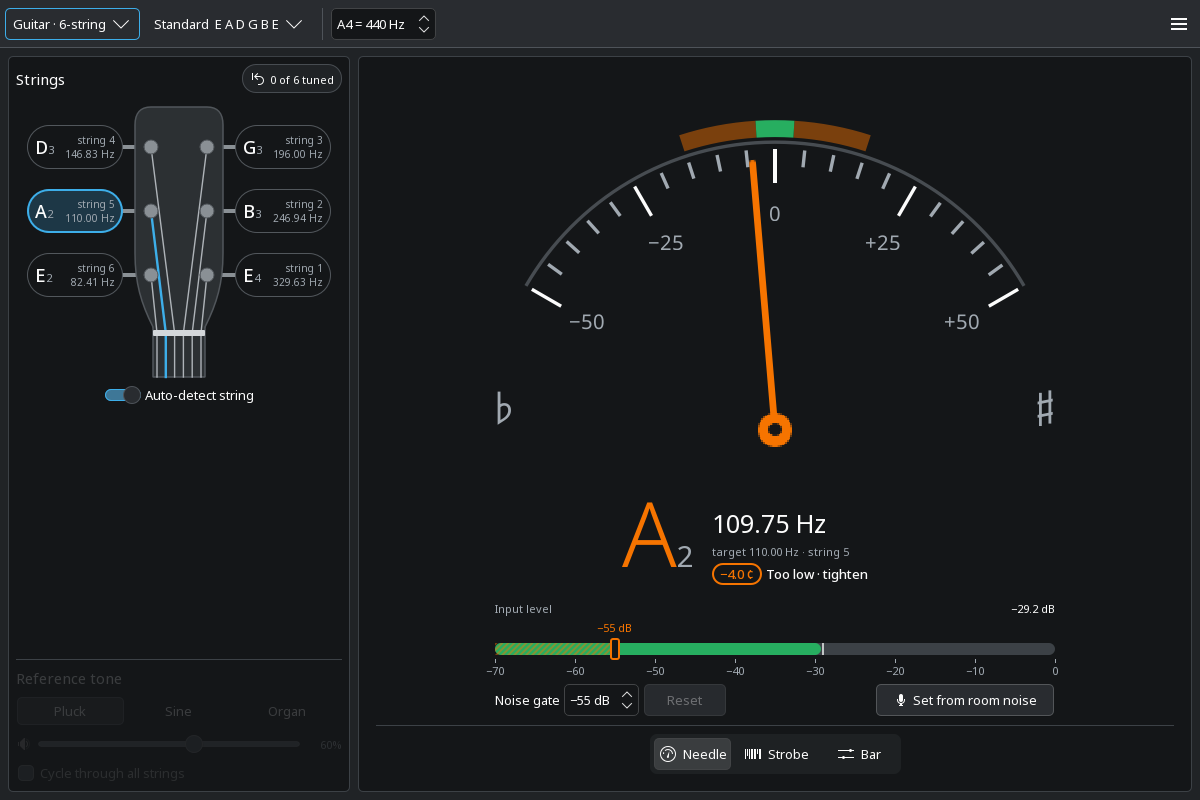
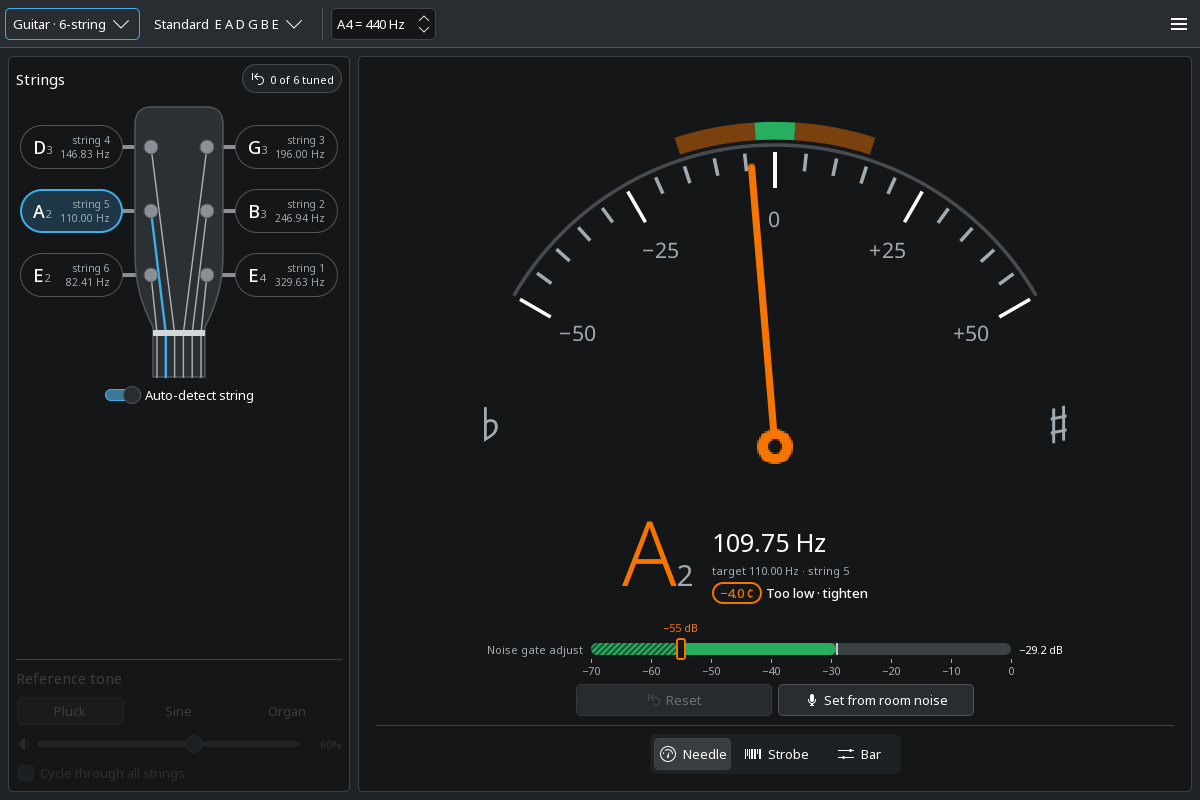
feat: noise gate meter with inline label and two centred buttons
Variant E of the v4 mockup: "Noise gate adjust" and the current level
sit on the meter line, the noise gate box is gone (the meter does the
same), and Reset (with an icon) and Set from room noise share one width,
centred under the meter. Hatching uses the panel color so it shows over
any fill. README, TODO, settings text, screenshots and the mockup
gallery follow.

diff --git a/src/qml/TunerPage.qml b/src/qml/TunerPage.qml
@@ -398,54 +398,57 @@ Kirigami.Page {
     component NoiseGatePanel: ColumnLayout {
         spacing: Kirigami.Units.smallSpacing
 
+        // Label and current level sit on the meter's line, centred on its track.
         RowLayout {
             Layout.fillWidth: true
-            Layout.leftMargin: Kirigami.Units.largeSpacing
-            Layout.rightMargin: Kirigami.Units.largeSpacing
+            spacing: 0
+
             QQC2.Label {
-                Layout.fillWidth: true
-                text: i18nc("@label", "Input level")
+                Layout.alignment: Qt.AlignTop
+                Layout.topMargin: gateMeter.trackCenter - height / 2
+                text: i18nc("@label", "Noise gate adjust")
                 font: Kirigami.Theme.smallFont
                 color: Kirigami.Theme.disabledTextColor
             }
+            NoiseGateMeter {
+                id: gateMeter
+                Layout.fillWidth: true
+                db: TunerController.levelDb
+                peak: TunerController.peakDb
+                gate: TunerController.noiseGate
+                minimumGate: TunerController.minNoiseGate
+                maximumGate: TunerController.maxNoiseGate
+                defaultGate: TunerController.defaultNoiseGate
+                onGateMoved: value => TunerController.noiseGate = value
+            }
             QQC2.Label {
+                Layout.alignment: Qt.AlignTop
+                Layout.topMargin: gateMeter.trackCenter - height / 2
+                Layout.minimumWidth: levelMetrics.width
+                horizontalAlignment: Text.AlignRight
                 text: i18nc("input level in decibels", "%1 dB", TunerController.levelDb.toFixed(1).replace("-", "−"))
                 font: Kirigami.Theme.smallFont
                 color: TunerController.levelDb <= TunerController.noiseGate ? Kirigami.Theme.disabledTextColor : Kirigami.Theme.textColor
+                // Wide enough for any level, so the meter doesn't shift while the value changes.
+                TextMetrics {
+                    id: levelMetrics
+                    font: Kirigami.Theme.smallFont
+                    text: i18nc("input level in decibels", "%1 dB", "−00.0")
+                }
             }
         }
 
-        NoiseGateMeter {
-            Layout.fillWidth: true
-            db: TunerController.levelDb
-            peak: TunerController.peakDb
-            gate: TunerController.noiseGate
-            minimumGate: TunerController.minNoiseGate
-            maximumGate: TunerController.maxNoiseGate
-            defaultGate: TunerController.defaultNoiseGate
-            onGateMoved: value => TunerController.noiseGate = value
-        }
-
+        // Two buttons of the same width, centred under the meter.
         RowLayout {
-            Layout.fillWidth: true
-            Layout.leftMargin: Kirigami.Units.largeSpacing
-            Layout.rightMargin: Kirigami.Units.largeSpacing
+            readonly property real buttonWidth: Math.max(Kirigami.Units.gridUnit * 11, resetButton.implicitWidth, measureButton.implicitWidth)
+
+            Layout.alignment: Qt.AlignHCenter
             spacing: Kirigami.Units.smallSpacing
 
-            QQC2.Label {
-                text: i18nc("@label:spinbox", "Noise gate")
-            }
-            QQC2.SpinBox {
-                from: TunerController.minNoiseGate
-                to: TunerController.maxNoiseGate
-                value: TunerController.noiseGate
-                editable: true
-                textFromValue: (value, locale) => i18nc("decibels", "%1 dB", String(value).replace("-", "−"))
-                valueFromText: (text, locale) => parseInt(text.replace("−", "-").replace(/[^0-9-]/g, "")) || TunerController.defaultNoiseGate
-                onValueModified: TunerController.noiseGate = value
-                Accessible.name: i18nc("@label:spinbox", "Noise gate")
-            }
             QQC2.Button {
+                id: resetButton
+                Layout.preferredWidth: parent.buttonWidth
+                icon.name: "edit-reset"
                 text: i18nc("@action:button reset the noise gate", "Reset")
                 enabled: TunerController.noiseGate !== TunerController.defaultNoiseGate
                 onClicked: TunerController.noiseGate = TunerController.defaultNoiseGate
@@ -453,10 +456,10 @@ Kirigami.Page {
                 QQC2.ToolTip.visible: hovered
                 QQC2.ToolTip.delay: Kirigami.Units.toolTipDelay
             }
-            Item {
-                Layout.fillWidth: true
+            MeasureNoiseButton {
+                id: measureButton
+                Layout.preferredWidth: parent.buttonWidth
             }
-            MeasureNoiseButton {}
         }
     }
 
@@ -472,7 +475,6 @@ Kirigami.Page {
             : done ? i18nc("@action:button noise gate was set", "Done")
             : i18nc("@action:button", "Set from room noise")
         enabled: !TunerController.measuringNoise
-        Layout.minimumWidth: Kirigami.Units.gridUnit * 10
 
         QQC2.ToolTip.text: i18nc("@info:tooltip", "Keep quiet for two seconds: the noise gate is set just above the noise of the room.")
         QQC2.ToolTip.visible: hovered

diff --git a/docs/mockups/index.html b/docs/mockups/index.html
@@ -65,8 +65,8 @@ a { color: var(--accent); }
   <p>Adjust the noise gate while tuning. Plucks ring out and decay into the room noise; the tuner dims while the input is below the gate.
      Try dragging the orange marker, the arrow keys and the mouse wheel on it. Add <code>&amp;room=noisy</code> for a louder room. All colors come from KDE color scheme roles: <code>theme=dark</code>, <code>light</code> (Breeze) or <code>layan</code>.</p>
   <div class="grid" data-pages='[
-    ["v4-noise-gate.html?gate=e&theme=layan", "E · Meter with its label inline, two centered buttons", "“Noise gate adjust” and the level on the meter line; the −/+ box is gone; Reset and Set from room noise, same size."],
-    ["v4-noise-gate.html?gate=d&theme=layan", "D · Your Layan colors", "Big meter in the tuner card, plus −/+, Reset and Set from room noise under it. No status bar. This is the layout implemented in the app.", true],
+    ["v4-noise-gate.html?gate=e&theme=layan", "E · Meter with its label inline, two centered buttons", "“Noise gate adjust” and the level on the meter line; the −/+ box is gone; Reset and Set from room noise, same size. This is the layout implemented in the app.", true],
+    ["v4-noise-gate.html?gate=d&theme=layan", "D · Your Layan colors", "Big meter in the tuner card, plus −/+, Reset and Set from room noise under it. No status bar."],
     ["v4-noise-gate.html?gate=d&theme=light&room=noisy", "D · Light theme, noisy room", "Press Set from room noise: the gate jumps above the noise and the tuner calms down."],
     ["v4-noise-gate.html?gate=a", "A · Drag the marker on the status bar meter", "Wider meter, a handle you can grab, hatched zone for ignored sounds, tooltip while dragging. Double-click resets."],
     ["v4-noise-gate.html?gate=b&open=true", "B · Click the meter for a noise gate popup", "Large meter with a scale, −/+ buttons, Reset, and Set from room noise (listens 2 s, sets the gate 6 dB above it)."],

diff --git a/src/qml/NoiseGateMeter.qml b/src/qml/NoiseGateMeter.qml
@@ -35,6 +35,7 @@ QQC2.Slider {
 
     readonly property real trackY: Kirigami.Units.gridUnit * 1.3
     readonly property real trackHeight: 12
+    readonly property real trackCenter: trackY + trackHeight / 2
     readonly property color gateColor: Kirigami.Theme.neutralTextColor
     readonly property color trackColor: Kirigami.ColorUtils.linearInterpolation(Kirigami.Theme.backgroundColor, Kirigami.Theme.textColor, 0.2)
 
@@ -123,7 +124,8 @@ QQC2.Slider {
                         width: 2
                         height: track.height + 8
                         rotation: 45
-                        color: Qt.alpha(root.gateColor, 0.45)
+                        // Panel color, so the stripes show over any fill color.
+                        color: Qt.alpha(Kirigami.Theme.backgroundColor, 0.6)
                     }
                 }
             }

diff --git a/src/qml/SettingsPage.qml b/src/qml/SettingsPage.qml
@@ -51,7 +51,7 @@ FormCard.FormCardPage {
 
         FormCard.FormSpinBoxDelegate {
             label: i18nc("@label:spinbox", "Noise gate")
-            description: i18nc("@info", "Sounds quieter than this are ignored. Lower it for a quiet instrument or a distant microphone. You can also drag the marker on the input level meter.")
+            description: i18nc("@info", "Sounds quieter than this are ignored. Lower it for a quiet instrument or a distant microphone. You can also drag the marker on the Noise gate adjust meter while tuning.")
             from: TunerController.minNoiseGate
             to: TunerController.maxNoiseGate
             stepSize: 1

diff --git a/README.md b/README.md
@@ -101,7 +101,7 @@ Tones fade in and out gently, so starting and stopping them doesn't click.
 
 ### Setting the noise gate
 
-The **Input level** meter under the note shows what the microphone hears, in dB: green is a healthy level, yellow is loud, red is close to clipping. The orange marker is the **noise gate**. Sounds left of it, in the hatched part, are ignored, and the tuner waits for a sound.
+The **Noise gate adjust** meter under the note shows what the microphone hears, in dB, with the current level on its right: green is a healthy level, yellow is loud, red is close to clipping. The orange marker is the **noise gate**. Sounds left of it, in the hatched part, are ignored, and the tuner waits for a sound.
 
 - **Drag the marker**, or click anywhere on the meter, while you tune. The change applies at once and is saved.
 - With the meter focused: the arrow keys move the gate by 1 dB, <kbd>Page Up</kbd>/<kbd>Page Down</kbd> by 5 dB. The mouse wheel works too.
@@ -118,7 +118,7 @@ Open **Configure Kamerton** from the ☰ menu or with <kbd>Ctrl</kbd>+<kbd>Shift
 | --- | --- | --- |
 | Microphone / input | System default | The input to listen to: a built-in mic, a USB audio interface, a webcam mic or any other PipeWire source. |
 | Speakers / output | System default | Where reference tones play. |
-| Noise gate | −55 dB | −70 to −10 dB. Sounds quieter than this are ignored. Easier to set on the input level meter while you tune, see [Setting the noise gate](#setting-the-noise-gate). |
+| Noise gate | −55 dB | −70 to −10 dB. Sounds quieter than this are ignored. Easier to set on the Noise gate adjust meter while you tune, see [Setting the noise gate](#setting-the-noise-gate). |
 | Concert pitch (A4) | 440 Hz | 400–480 Hz. Some orchestras use 442 Hz, baroque music 415 Hz. Also in the toolbar. |
 | In-tune tolerance | ±3 cents | How close a string must be to count as tuned: ±1–2 cents for recording, ±5 for a quick check. |
 | Display | Needle | The display to start with. You can also switch it under the tuner. |
@@ -160,7 +160,7 @@ All settings, including custom tunings, are stored in `~/.config/kamertonrc`. To
 | Key | Action |
 | --- | --- |
 | <kbd>Space</kbd> | Play or stop the selected string's reference tone (when Auto-detect string is off) |
-| <kbd>←</kbd> <kbd>→</kbd>, <kbd>Page Up</kbd>/<kbd>Page Down</kbd> | Move the noise gate by 1 or 5 dB (with the input level meter focused) |
+| <kbd>←</kbd> <kbd>→</kbd>, <kbd>Page Up</kbd>/<kbd>Page Down</kbd> | Move the noise gate by 1 or 5 dB (with the Noise gate adjust meter focused) |
 | <kbd>Ctrl</kbd>+<kbd>Shift</kbd>+<kbd>,</kbd> | Settings |
 | <kbd>Ctrl</kbd>+<kbd>Q</kbd> | Quit |
 
@@ -169,7 +169,7 @@ All settings, including custom tunings, are stored in `~/.config/kamertonrc`. To
 <details>
 <summary><b>The tuner doesn't react when I play</b></summary>
 
-Watch the input level meter under the note while you play.
+Watch the Noise gate adjust meter under the note while you play.
 - **It doesn't move:** Kamerton is listening to the wrong input. Choose the right one under *Microphone / input*, and check that the mic isn't muted in Plasma's audio settings.
 - **It moves but stays left of the orange noise gate marker:** drag the marker to the left, or move the mic closer.
 </details>

diff --git a/docs/TODO.md b/docs/TODO.md
@@ -1,12 +1,13 @@
 # Kamerton — TODO
 
-Mockups: [mockups/index.html](mockups/index.html) (open in a browser; v3 "C2" plus v4 "D" is the implemented layout)
+Mockups: [mockups/index.html](mockups/index.html) (open in a browser; v3 "C2" plus v4 "E" is the implemented layout)
 
-## Done: noise gate on the level meter (v4, variant D)
+## Done: noise gate on the level meter (v4, variant E)
 
-- [x] Input level meter in the tuner card with a dB scale and a draggable noise gate marker; hatched zone for ignored sounds
+- [x] "Noise gate adjust" meter in the tuner card, label and level on the meter line, dB scale, draggable gate marker; hatched zone for ignored sounds
 - [x] Mouse wheel, arrow keys, Page Up/Down and double-click reset on the meter; screen reader name and value
-- [x] Noise gate −/+ box, Reset, and "Set from room noise" (listens 2 s, gate 6 dB above the noise; feedback only on the button)
+- [x] Reset and "Set from room noise" under the meter, same size, centered (listens 2 s, gate 6 dB above the noise; feedback only on the button)
+- [x] String buttons sized to the UI font; badge glyphs drawn so they read at 18 px with any icon theme
 - [x] Gate limited to −70…−10 dB so the marker always stays on the meter
 - [x] Status bar removed
 - [x] String number and frequency on the headstock pegs; tuned and play / stop badges on the top edge of every string button
